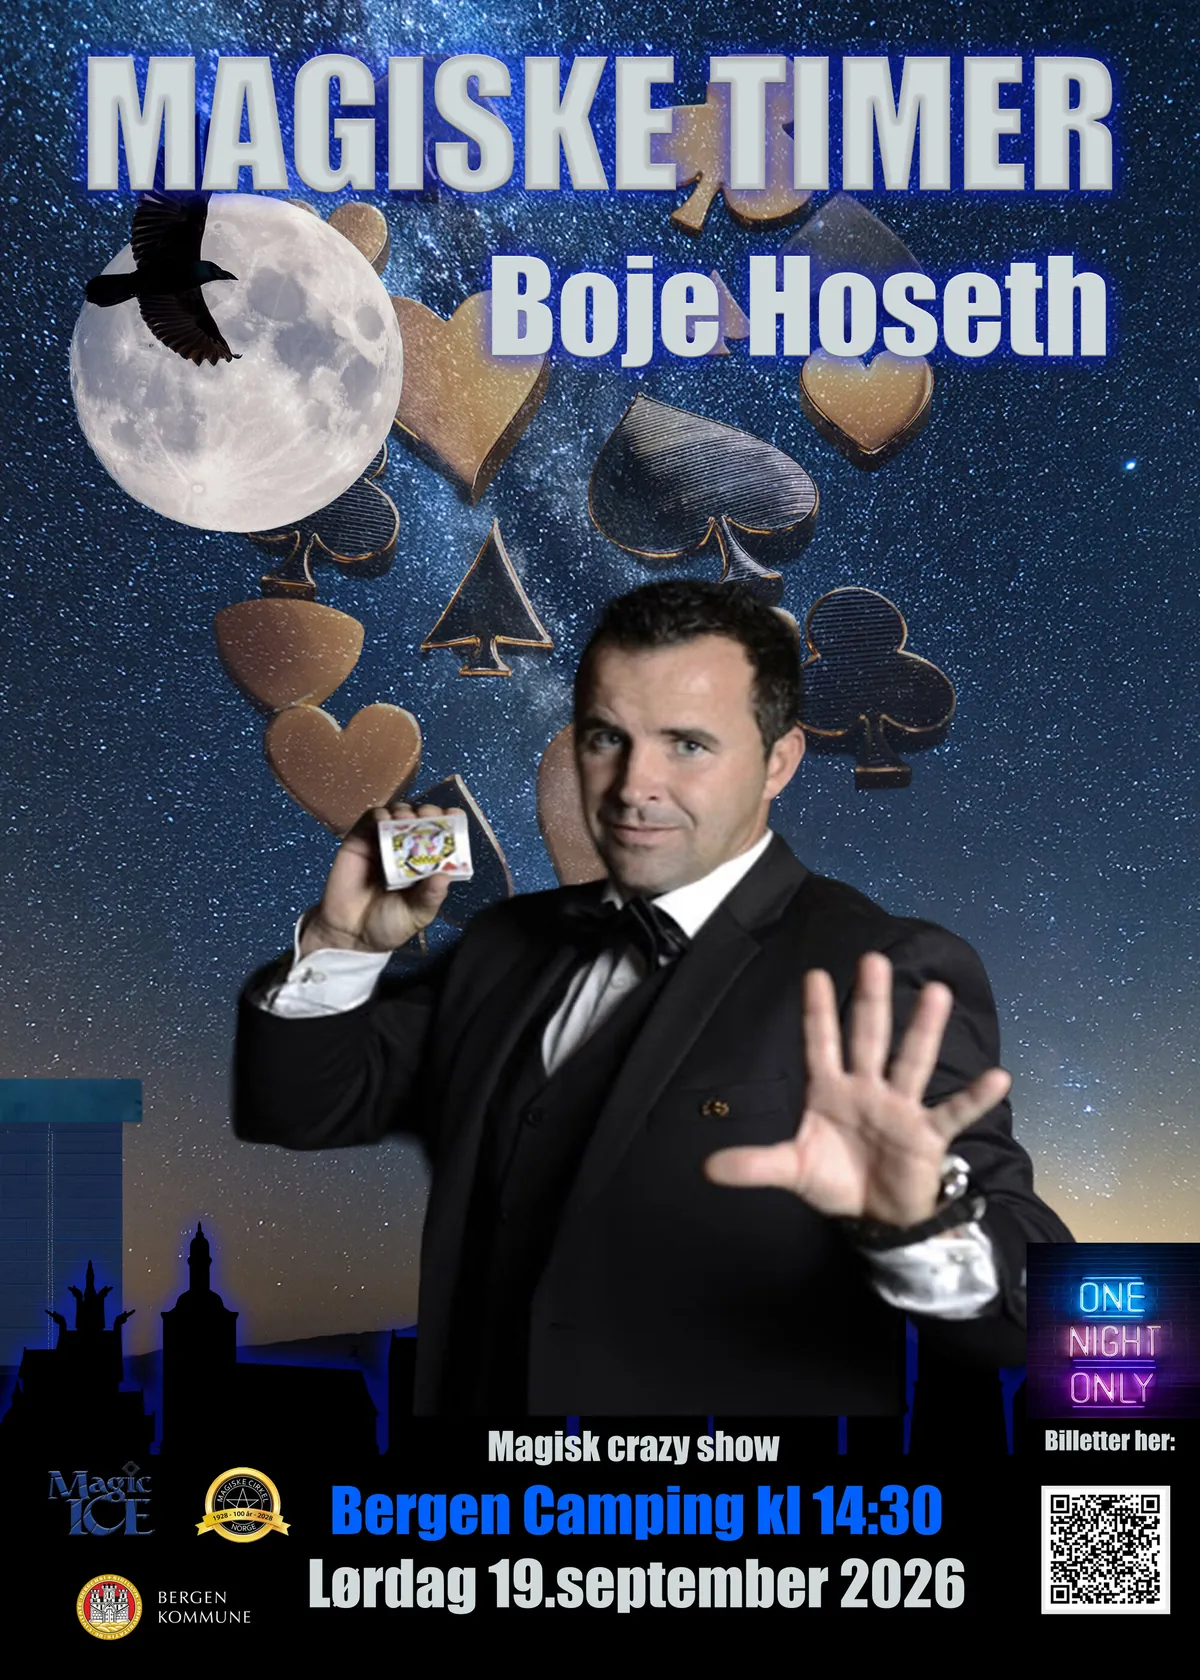
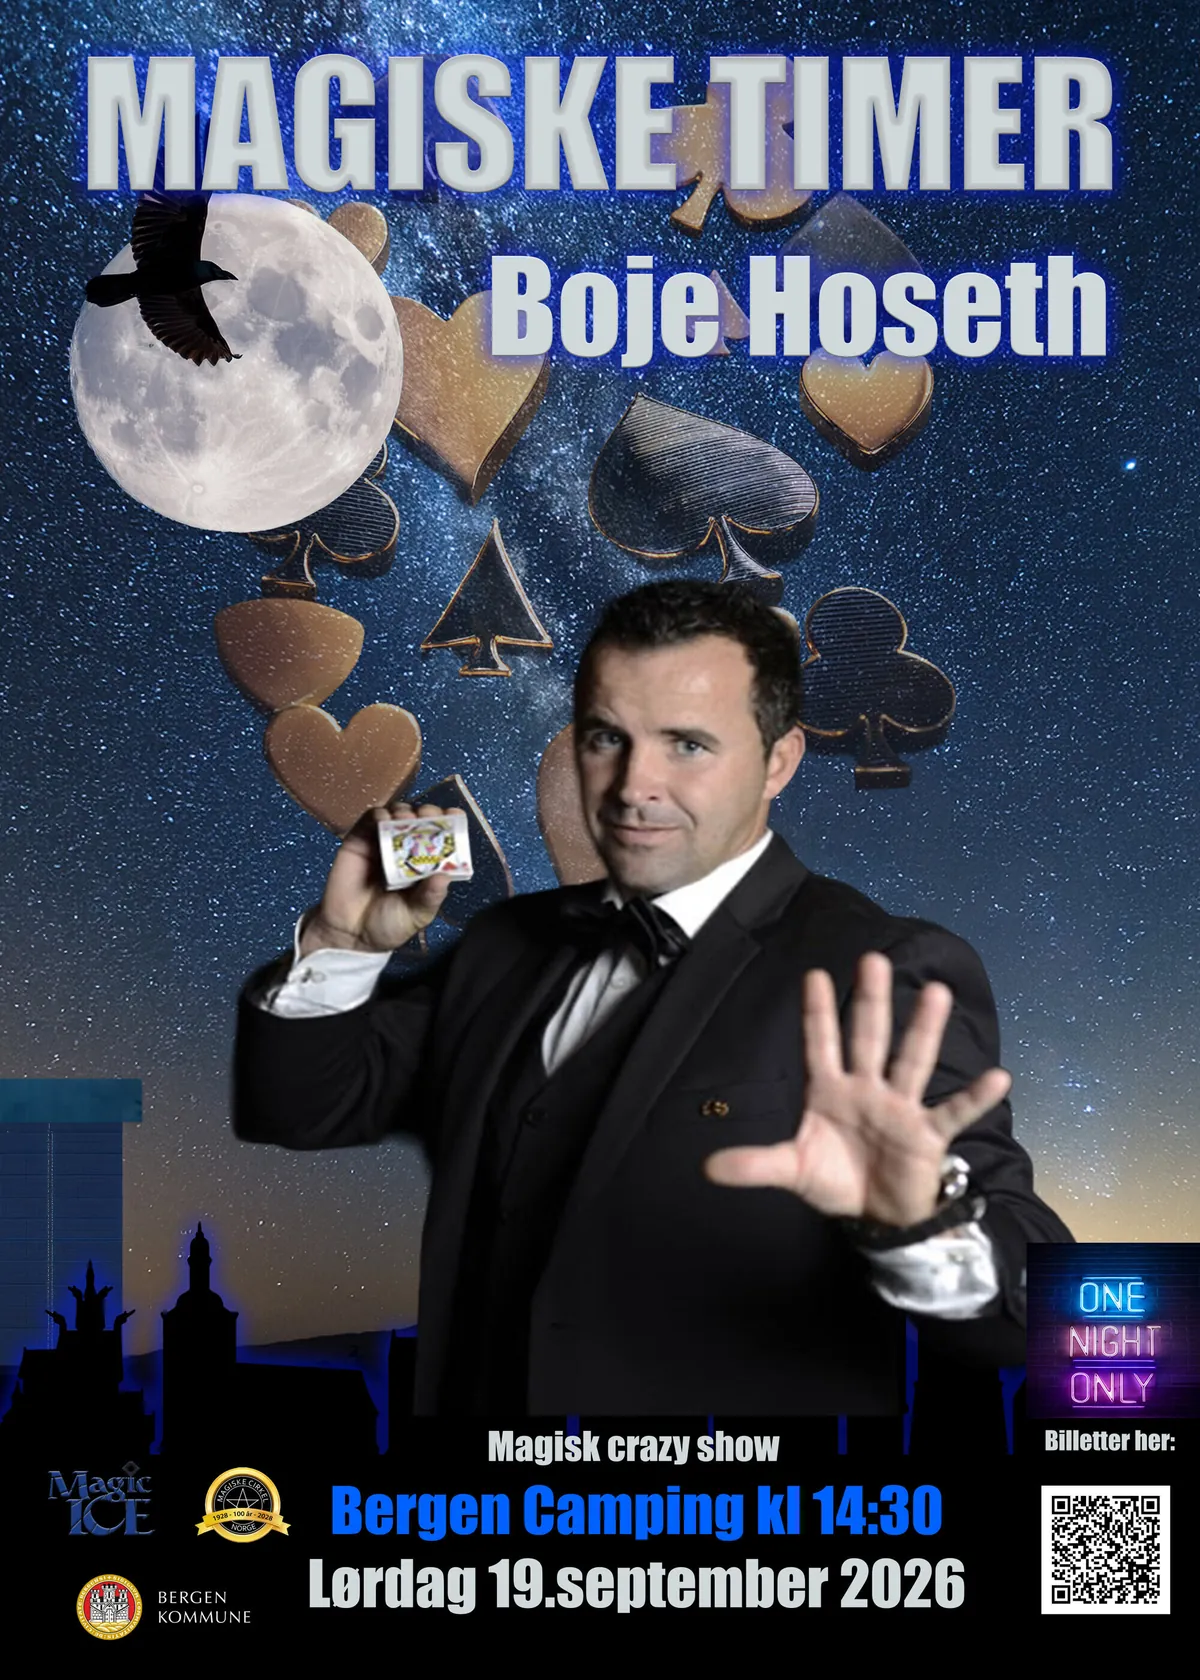
Nye QR-koder paa plakatene og nye LetsReg-billettlenker
Claude-Session: https://claude.ai/code/session_01XS1NAbugA7k7CDofzmqYfs

Changed region(s): [[0.8633, 0.8667, 0.9867, 0.9595]]

diff --git a/index.html b/index.html
@@ -409,7 +409,7 @@ a.pg-venue:hover,a.pg-venue:focus-visible{background:rgba(212,175,55,.2);border-
 <h3>Boje Hoseth</h3>
 <div class="show-meta">L&oslash;rdag 19. september 2026 &middot; kl. 14:30 &middot; Bergen Camping</div>
 <p>Boje Hoseth er en av Norges mest crazy tryllekunstnere. N&aring; kan du oppleve han i et formiddagsshow p&aring; Bergen Camping. Glem alt du tror du vet om magi &ndash; han overrasker deg og f&aring;r deg til &aring; trekke p&aring; smileb&aring;ndet, bryte ut i spontan mistro og gir deg lyst til &aring; virkelig st&aring; p&aring; stolen for &aring; gi applaus.</p>
-<a class="ticket-link" href="https://www.letsreg.com/no/register/crazymagicsjov_27082026011315#/" target="_blank" rel="noopener">Bestill billetter her!</a>
+<a class="ticket-link" href="https://www.letsreg.com/no/register/bojescrazymagicshow_31082026120410" target="_blank" rel="noopener">Bestill billetter her!</a>
 </div>
 </div>
 
@@ -425,7 +425,7 @@ a.pg-venue:hover,a.pg-venue:focus-visible{background:rgba(212,175,55,.2);border-
 <h3>Dinnershow</h3>
 <div class="show-meta">L&oslash;rdag 19. september 2026 &middot; kl. 20:00 &middot; Sj&oslash;scenen, Holbergskaien i V&aring;gen</div>
 <p>L&oslash;rdag kveld legger &laquo;Sj&oslash;scenen&raquo; til ved Holbergskaien i V&aring;gen. Et kveldsshow med internasjonalt tilsnitt &ndash; og en omfangsrik tapasbuffet er inkludert i prisen. Captain Frodo er for f&oslash;rste gang p&aring; lenge tilbake i Bergen. Han er en sv&aelig;rt erfaren tryllekunstner som har turnert over hele verden, med stopp i Las Vegas, hos Cirque du Soleil og i Australia. Rune Carlsen er kanskje Norges mest meritterte tryllekunstner og har hatt flere show p&aring; Magic Castle i Los Angeles &ndash; du har kanskje sett han i Norske og Svenske talenter, der gullknappen ble brukt for ham. Flere andre artister st&aring;r ogs&aring; p&aring; scenen i dette helt spesielle arrangementet.</p>
-<a class="ticket-link" href="https://www.letsreg.com/no/register/crazymagicsjov1_27082026011834" target="_blank" rel="noopener">Bestill billetter her!</a>
+<a class="ticket-link" href="https://www.letsreg.com/no/register/enmagiskaftendinnershow_30082026042838" target="_blank" rel="noopener">Bestill billetter her!</a>
 </div>
 </div>
 
@@ -441,7 +441,7 @@ a.pg-venue:hover,a.pg-venue:focus-visible{background:rgba(212,175,55,.2);border-
 <h3>Familieforestilling</h3>
 <div class="show-meta">S&oslash;ndag 20. september 2026 &middot; kl. 12:00 &middot; Cornerteateret, M&oslash;hlenpris</div>
 <p>Cornerteateret p&aring; M&oslash;hlenpris er arena for en helt spesiell magisk familieforestilling som inkluderer junior-NM med tre deltakere. Egne familiepriser. La barna dine bli inspirert til &aring; starte en helt ny hobby, eller bare kom og la deg underholde.</p>
-<a class="ticket-link" href="https://www.letsreg.com/no/register/dinnershowmagisketimer20261_27082026013009" target="_blank" rel="noopener">Bestill billetter her!</a>
+<a class="ticket-link" href="https://www.letsreg.com/no/register/trylleshow_31082026014307" target="_blank" rel="noopener">Bestill billetter her!</a>
 </div>
 </div>
 
